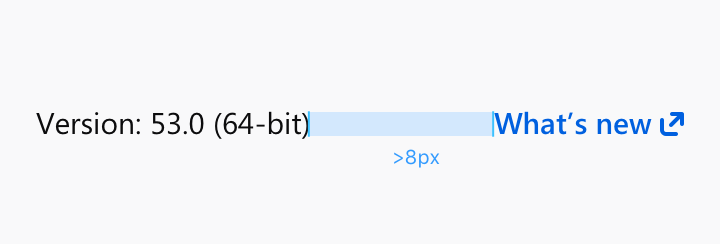
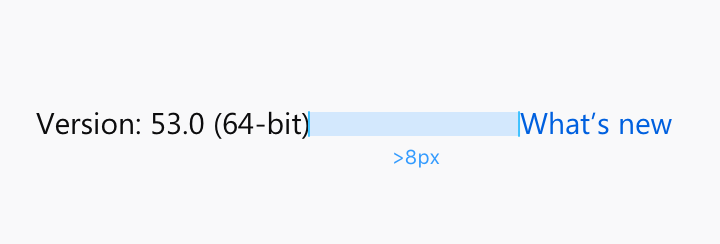
[Update] link

Changed region(s): [[0.6722, 0.459, 0.9472, 0.5738]]

diff --git a/contents/components/link.html b/contents/components/link.html
@@ -8,53 +8,113 @@
 <section>
   <h2>Usage</h2>
   <p>
-  Use text links as navigation to guide users to a new page or to anchor users to a section within a page. For calling an action that result in an immediate change, use buttons instead. 
+  Use text links as navigation to guide users to a new page or to anchor users to a section within a page. For calling an action that results in an immediate change, use buttons instead. 
   <a href="buttons.html">See buttons</a> 
   </p>
 </section>
 
 <section>
-  <h2>Styles</h2>
+  <h2>Types</h2>
+ 
   <div class="cf nr2 nl2">
-    <div class="fl-ns w-40-ns ph2">
+    <div class="fl-ns w-50-ns ph2">
+      <img class="w-100" src="../images/link/Internal-link.png" alt="">
+      <h4>Internal link</h4>
+      <p>
+      Internal links direct users to a page inside the Mozilla properties (e.g. SUMO, Pocket) or jump into a specific part on the same page. 
+      </p>
+    </div>
+    
+    <div class="fl-ns w-50-ns ph2">
+      <img class="w-100" src="../images/link/External-link.png" alt="">
+      <h4>External link</h4>
+      <p>External links direct users to an external page which is not produced by Mozilla.
+      <br>An <a href="http://design.firefox.com/icons/viewer/#open">Open In New</a>  icon should be paired with the external link.
+    </div>
+  </div>
+</section>
+
+<section>
+  <h2>Styles</h2>
+  <h3>Light Background</h3>
+  <div class="cf nr2 nl2">
+    <div class="fl-ns w-70-ns ph2">
       <img class="w-100" src="../images/link/link-normal.png" alt="">
     </div>
-    <div class="fl-ns w-60-ns ph2">
-      <p>Font weight: Semibold<br/>Color: Blue 60 <code>#0060df</code></p>
+    <div class="fl-ns w-30-ns ph2">
+      <p>Font weight: Normal<br/>Color: Blue 60 <code>#0060df</code></p>
     </div>
   </div>
 
   <div class="cf nr2 nl2">
-    <div class="fl-ns w-40-ns ph2">
+    <div class="fl-ns w-70-ns ph2">
       <img class="w-100" src="../images/link/link-hover.png" alt="">
     </div>
-    <div class="fl-ns w-60-ns ph2">
-      <p>Font weight: Semibold<br/>Color: Blue 60 <code>#0060df</code></p>
+    <div class="fl-ns w-30-ns ph2">
+      <p>Font weight: Normal<br/>Color: Blue 60 <code>#0060df</code></p>
     </div>
   </div>
 
   <div class="cf nr2 nl2">
-    <div class="fl-ns w-40-ns ph2">
+    <div class="fl-ns w-70-ns ph2">
       <img class="w-100" src="../images/link/link-pressed.png" alt="">
     </div>
-    <div class="fl-ns w-60-ns ph2">
-      <p>Font weight: Semibold<br/>Color: Blue 70 <code>#003eaa</code></p>
+    <div class="fl-ns w-30-ns ph2">
+      <p>Font weight: Normal<br/>Color: Blue 70 <code>#003eaa</code></p>
     </div>
   </div>
 
   <div class="cf nr2 nl2">
-   <div class="fl-ns w-40-ns ph2">
+   <div class="fl-ns w-70-ns ph2">
       <img class="w-100" src="../images/link/link-focused.png" alt="">
     </div>
-    <div class="fl-ns w-60-ns ph2">
-      <p>Font weight: Semibold<br/>Color: Blue 60 <code>#0060df</code><br/>With focused square</p>
+    <div class="fl-ns w-30-ns ph2">
+      <p>Font weight: Normal<br/>Color: Blue 60 <code>#0060df</code><br/>With focused square</p>
+    </div>
+  </div>
+
+
+  <h3>Dark Background</h3>
+  <div class="cf nr2 nl2">
+    <div class="fl-ns w-70-ns ph2">
+      <img class="w-100" src="../images/link/link-normal-darkbg.png" alt="">
+    </div>
+    <div class="fl-ns w-30-ns ph2">
+      <p>Font weight: Normal<br/>Color: White <code>#ffffff</code></p>
+    </div>
+  </div>
+
+  <div class="cf nr2 nl2">
+    <div class="fl-ns w-70-ns ph2">
+      <img class="w-100" src="../images/link/link-hover-darkbg.png" alt="">
+    </div>
+    <div class="fl-ns w-30-ns ph2">
+      <p>Font weight: Normal<br/>Color: White <code>#ffffff</code></p>
+    </div>
+  </div>
+
+  <div class="cf nr2 nl2">
+    <div class="fl-ns w-70-ns ph2">
+      <img class="w-100" src="../images/link/link-pressed-darkbg.png" alt="">
+    </div>
+    <div class="fl-ns w-30-ns ph2">
+      <p>Font weight: Normal<br/>Color: White <code>#ffffff</code></p>
+    </div>
+  </div>
+
+  <div class="cf nr2 nl2">
+   <div class="fl-ns w-70-ns ph2">
+      <img class="w-100" src="../images/link/link-focused-darkbg.png" alt="">
+    </div>
+    <div class="fl-ns w-30-ns ph2">
+      <p>Font weight: Normal<br/>Color: White <code>#ffffff</code><br/>With focused square</p>
     </div>
   </div>
 </section>
 
 <section>
   <h2>Examples</h2>
-  <p> A link can follow after a sentence or an option. For a better understanding of the relationship between the link and the sententce/option, stick the link next to what it related.</p>  
+  <p> A link can go after a sentence or an option. For a better understanding of the relationship between the link and the sententce/option, stick the link next to what it is related to.</p>  
   
   <div class="cf nr2 nl2">
     <div class="fl-ns w-50-ns ph2">

diff --git a/contents/patterns/shadows.html b/contents/patterns/shadows.html
@@ -4,7 +4,7 @@
 <section>
   <h2>Usage</h2>
   <p>
-    When you need to highlight the difference in elevantion between two componetns you can use shadows.
+    When you need to highlight the difference in elevantion between two components you can use shadows.
   </p>
   <h2>Style</h2>
   <% include ../includes/patterns/shadows/elevation.html %>
